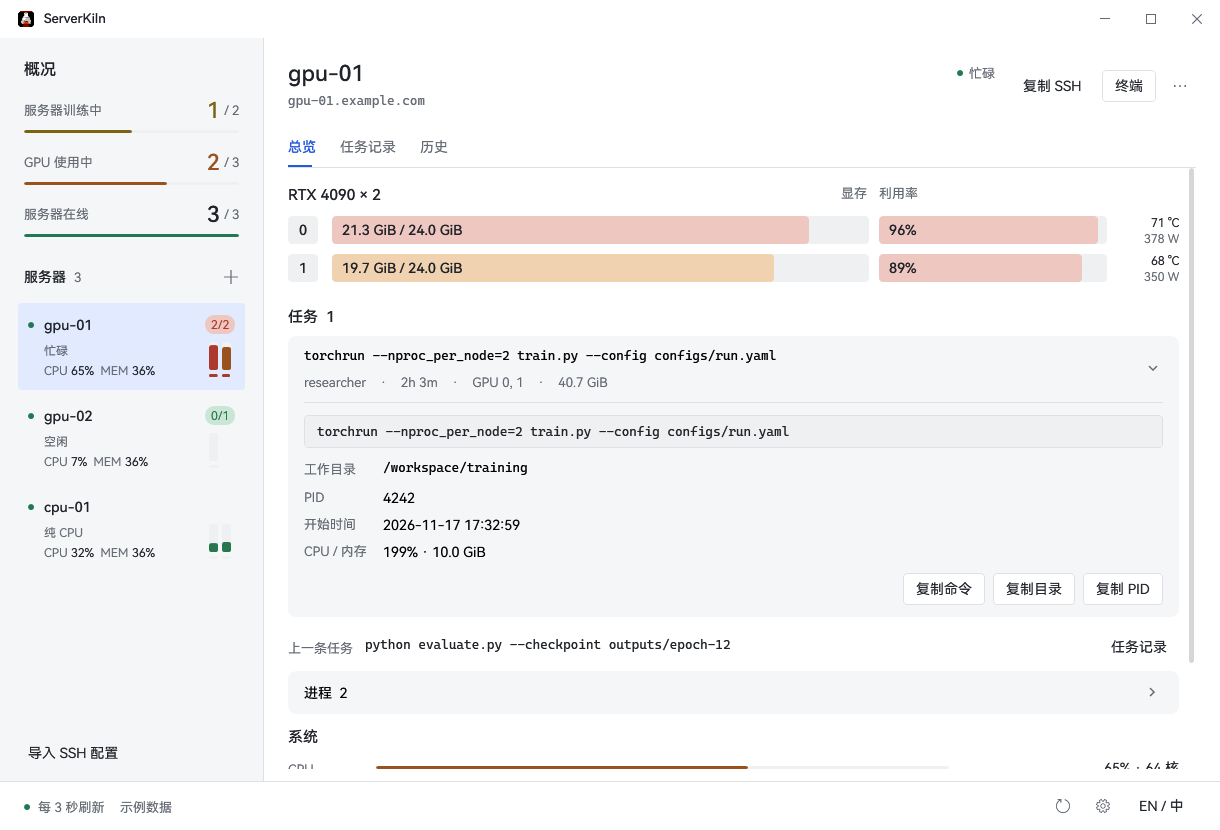
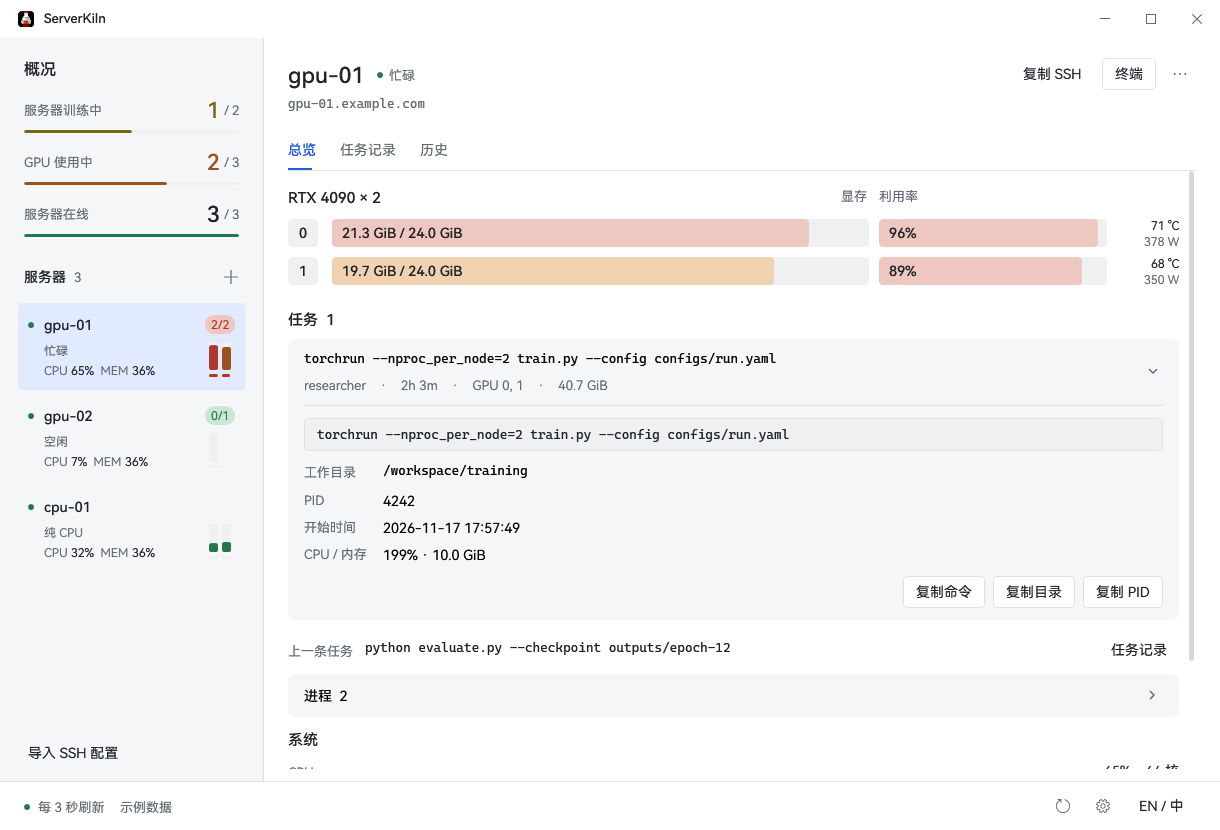
ui: align server status beside the detail title

diff --git a/Sources/ServerKiln.Windows/MainWindow.xaml b/Sources/ServerKiln.Windows/MainWindow.xaml
@@ -110,8 +110,12 @@
    <Grid>
    <StackPanel Visibility="{Binding EmptyVisibility}" VerticalAlignment="Center" HorizontalAlignment="Center" MaxWidth="420"><TextBlock Text="{Binding [NoServers], Source={x:Static local:Localizer.Current}}" FontSize="18" FontWeight="Medium" TextAlignment="Center" /><TextBlock Text="{Binding [Welcome], Source={x:Static local:Localizer.Current}}" Style="{StaticResource Caption}" TextWrapping="Wrap" TextAlignment="Center" Margin="0,12,0,24" /><Button Content="{Binding [Add], Source={x:Static local:Localizer.Current}}" Click="AddServer" HorizontalAlignment="Center" /></StackPanel>
    <Grid x:Name="DetailView" Visibility="{Binding DetailVisibility}"><Grid.RowDefinitions><RowDefinition Height="Auto" /><RowDefinition /></Grid.RowDefinitions>
-    <Grid x:Name="DetailsHeader" DataContext="{Binding SelectedServer}" Margin="0,0,0,16"><Grid.ColumnDefinitions><ColumnDefinition /><ColumnDefinition Width="Auto" /></Grid.ColumnDefinitions>
-     <StackPanel Margin="0,0,16,0"><DockPanel><StackPanel DockPanel.Dock="Right" Orientation="Horizontal" Margin="12,0,0,0" VerticalAlignment="Center"><Ellipse Width="6" Height="6" Fill="{Binding ConnectionBrush}" Margin="0,0,6,0" /><TextBlock Text="{Binding Status}" Style="{StaticResource Caption}" /></StackPanel><TextBlock Text="{Binding Name}" FontSize="22" FontWeight="Medium" TextTrimming="CharacterEllipsis" ToolTip="{Binding Name}" /></DockPanel><TextBlock Text="{Binding Target}" Style="{StaticResource CommandText}" Foreground="{DynamicResource MutedBrush}" Margin="0,6,0,0" ToolTip="{Binding Target}" /></StackPanel>
+    <Grid x:Name="DetailsHeader" DataContext="{Binding SelectedServer}" Margin="0,0,0,16"><Grid.ColumnDefinitions><ColumnDefinition /><ColumnDefinition Width="Auto" /></Grid.ColumnDefinitions><Grid.RowDefinitions><RowDefinition Height="Auto" /><RowDefinition Height="Auto" /></Grid.RowDefinitions>
+      <Grid Margin="0,0,24,0" VerticalAlignment="Center"><Grid.ColumnDefinitions><ColumnDefinition Width="Auto" MaxWidth="320" /><ColumnDefinition Width="Auto" /></Grid.ColumnDefinitions>
+       <TextBlock Text="{Binding Name}" FontSize="22" FontWeight="Medium" TextTrimming="CharacterEllipsis" ToolTip="{Binding Name}" VerticalAlignment="Center" />
+       <StackPanel Grid.Column="1" Orientation="Horizontal" Margin="12,0,0,0" VerticalAlignment="Center"><Ellipse Width="6" Height="6" Fill="{Binding ConnectionBrush}" Margin="0,0,6,0" VerticalAlignment="Center" /><TextBlock Text="{Binding Status}" Style="{StaticResource Caption}" VerticalAlignment="Center" /></StackPanel>
+      </Grid>
+     <TextBlock Grid.Row="1" Grid.ColumnSpan="2" Text="{Binding Target}" Style="{StaticResource CommandText}" Foreground="{DynamicResource MutedBrush}" Margin="0,6,0,0" ToolTip="{Binding Target}" />
      <StackPanel Grid.Column="1" Orientation="Horizontal" VerticalAlignment="Center"><Button Content="{Binding [CopySsh], Source={x:Static local:Localizer.Current}}" Click="CopySsh" Style="{StaticResource GhostButton}" Margin="0,0,8,0" /><Button Content="{Binding [Terminal], Source={x:Static local:Localizer.Current}}" Click="OpenTerminal" Margin="0,0,8,0" />
       <Button x:Name="ServerMenuButton" Content="&#xE712;" Click="OpenServerMenu" Style="{StaticResource IconButton}" ToolTip="{Binding [More], Source={x:Static local:Localizer.Current}}" AutomationProperties.Name="{Binding [More], Source={x:Static local:Localizer.Current}}"><Button.ContextMenu><ContextMenu><MenuItem Header="{Binding [Edit], Source={x:Static local:Localizer.Current}}" Click="EditServer" /><MenuItem Header="{Binding [FirstConnect], Source={x:Static local:Localizer.Current}}" Click="OpenTerminal" /><MenuItem Header="{Binding [JobHistory], Source={x:Static local:Localizer.Current}}" Click="OpenJobs" /><Separator /><MenuItem Header="{Binding [Remove], Source={x:Static local:Localizer.Current}}" Click="RemoveServer" Foreground="{DynamicResource DangerBrush}" /></ContextMenu></Button.ContextMenu></Button>
      </StackPanel>

diff --git a/Sources/ServerKiln.Windows/MainWindow.xaml.cs b/Sources/ServerKiln.Windows/MainWindow.xaml.cs
@@ -221,6 +221,8 @@ public partial class MainWindow : Window
         ShowOverview();
         DetailScroll.ScrollToTop();
         await SaveSnapshotAsync(Path.Combine(directory, "overview-light.png"));
+        AppState.ViewModel.SelectedServer = AppState.ViewModel.Servers.Skip(1).FirstOrDefault() ?? first;
+        await SaveSnapshotAsync(Path.Combine(directory, "idle-light.png"));
         AppState.ViewModel.SelectedServer = AppState.ViewModel.Servers.Last();
         await SaveSnapshotAsync(Path.Combine(directory, "server-detail-light.png"));
         AppState.ViewModel.SelectedServer = first;
